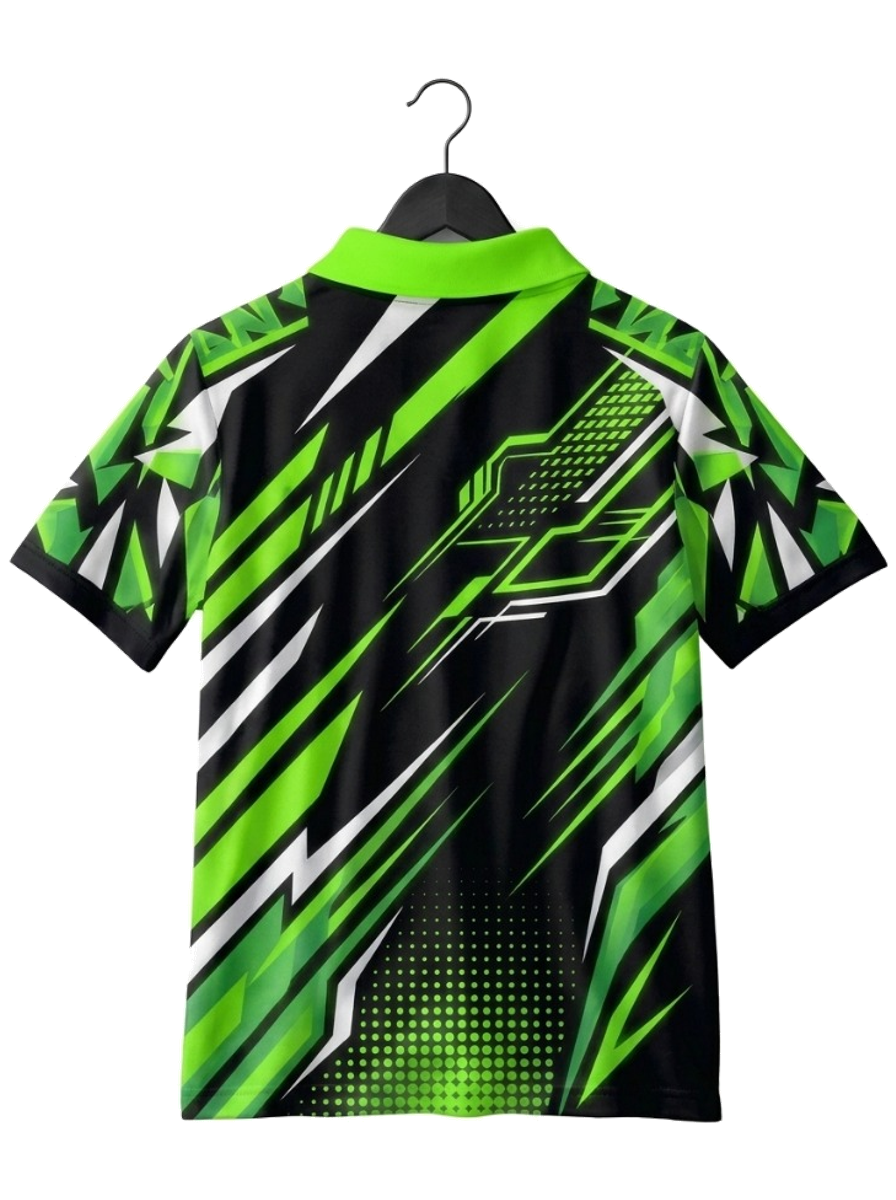
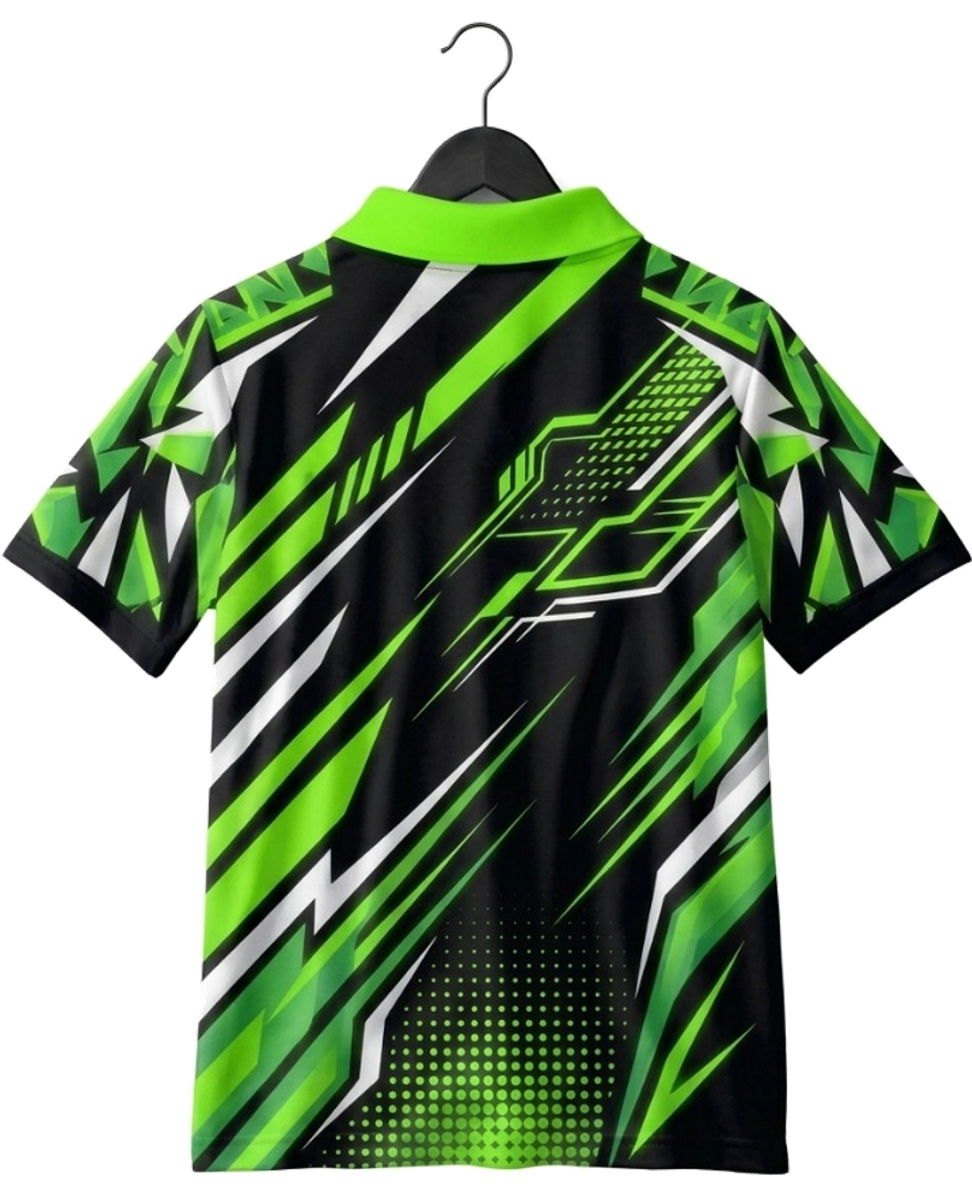
fix(jersey06): scale up jersey 06 front and back to match standard height and enlarge detail product on desktop

diff --git a/src/components/GarmentRotator.tsx b/src/components/GarmentRotator.tsx
@@ -91,11 +91,11 @@ export function GarmentRotator({
       onPointerUp={handlePointerUp}
       onPointerCancel={handlePointerUp}
       title="Geser ke kiri/kanan atau ketuk untuk memutar baju"
-      className="relative z-10 w-full max-w-[300px] md:max-w-[400px] lg:max-w-[440px] h-[290px] md:h-[420px] lg:h-[460px] flex flex-col items-center justify-center cursor-grab active:cursor-grabbing [perspective:1200px] select-none touch-pan-y"
+      className="relative z-10 w-full max-w-[300px] md:max-w-[420px] lg:max-w-[500px] xl:max-w-[540px] h-[290px] md:h-[440px] lg:h-[520px] xl:h-[560px] flex flex-col items-center justify-center cursor-grab active:cursor-grabbing [perspective:1200px] select-none touch-pan-y"
     >
       {/* 1. Kait Gantungan Atas (Disembunyikan jika foto custom punya gantungan sendiri - tanpa pop-up tooltip) */}
       {!hasOwnHanger && (
-        <div className="w-[104px] md:w-[130px] h-[48px] md:h-[60px] flex-shrink-0 z-20">
+        <div className="w-[104px] md:w-[130px] lg:w-[144px] h-[48px] md:h-[60px] lg:h-[66px] flex-shrink-0 z-20">
           <HangerHookSVG priceTagText={priceText} showPriceTag={false} />
         </div>
       )}
@@ -112,7 +112,7 @@ export function GarmentRotator({
       >
         {/* TAMPAK DEPAN / SAMPING */}
         <div className="absolute inset-0 flex flex-col items-center justify-center backface-hidden">
-          <div className="h-[245px] md:h-[360px] lg:h-[410px] max-h-[245px] md:max-h-[360px] lg:max-h-[410px] w-auto max-w-full flex items-center justify-center">
+          <div className="h-[245px] md:h-[370px] lg:h-[480px] xl:h-[520px] max-h-[245px] md:max-h-[370px] lg:max-h-[480px] xl:max-h-[520px] w-auto max-w-full flex items-center justify-center">
             <GarmentSVG
               item={item}
               categoryId={categoryId}
@@ -125,7 +125,7 @@ export function GarmentRotator({
 
         {/* TAMPAK BELAKANG (180°) */}
         <div className="absolute inset-0 flex flex-col items-center justify-center backface-hidden [transform:rotateY(180deg)]">
-          <div className="h-[245px] md:h-[360px] lg:h-[410px] max-h-[245px] md:max-h-[360px] lg:max-h-[410px] w-auto max-w-full flex items-center justify-center">
+          <div className="h-[245px] md:h-[370px] lg:h-[480px] xl:h-[520px] max-h-[245px] md:max-h-[370px] lg:max-h-[480px] xl:max-h-[520px] w-auto max-w-full flex items-center justify-center">
             <GarmentSVG
               item={item}
               categoryId={categoryId}
